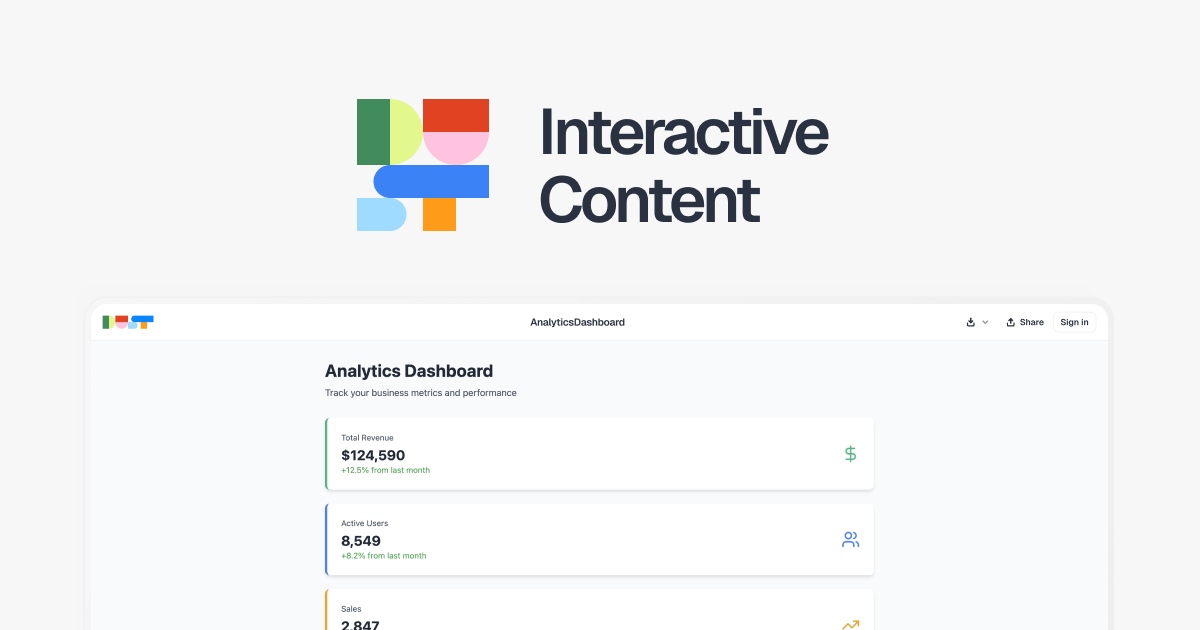
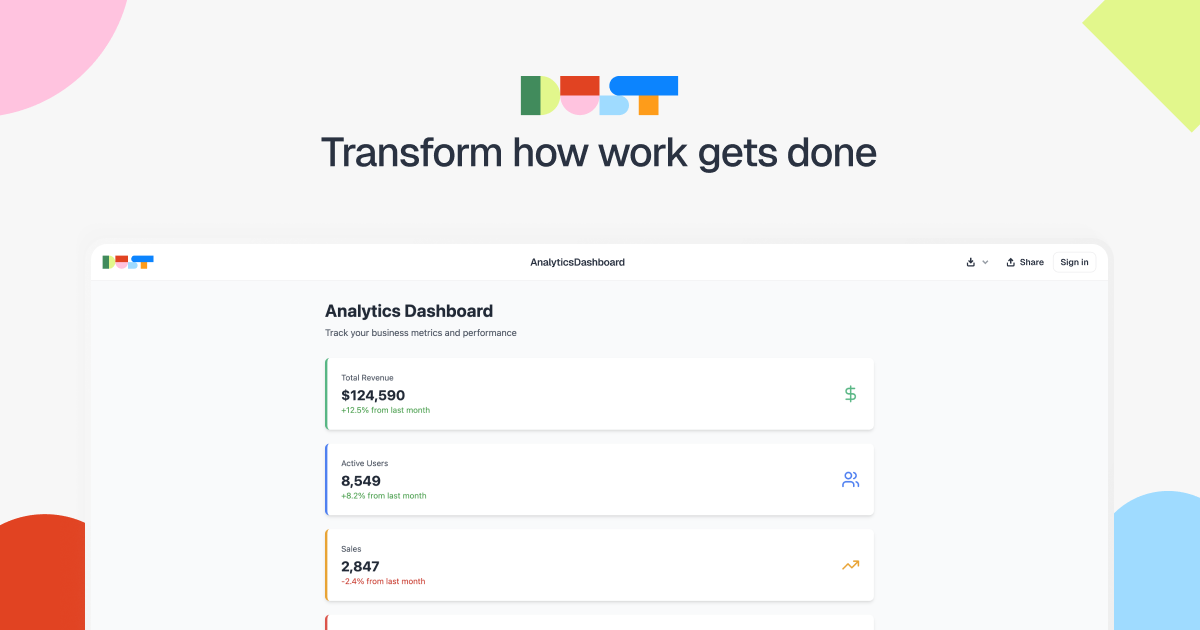
Improve Open Graph preview for Interactive Content

diff --git a/front/pages/share/file/[token].tsx b/front/pages/share/file/[token].tsx
@@ -2,6 +2,7 @@ import Head from "next/head";
 
 import { PublicInteractiveContentContainer } from "@app/components/assistant/conversation/content/PublicInteractiveContentContainer";
 import config from "@app/lib/api/config";
+import { formatFilenameForDisplay } from "@app/lib/files";
 import { makeGetServerSidePropsRequirementsWrapper } from "@app/lib/iam/session";
 import { FileResource } from "@app/lib/resources/file_resource";
 import { WorkspaceResource } from "@app/lib/resources/workspace_resource";
@@ -76,13 +77,14 @@ export default function SharedFilePage({
   token,
   workspaceName,
 }: SharedFilePageProps) {
-  const description = `Interactive content "${title}" shared from ${workspaceName} workspace`;
+  const humanFriendlyTitle = formatFilenameForDisplay(title);
+  const description = `${humanFriendlyTitle} shared from ${workspaceName} via Dust`;
 
   return (
     <>
       <Head>
         {/* Basic meta tags */}
-        <title>{title} - Dust</title>
+        <title>{humanFriendlyTitle} - Dust</title>
         <meta name="description" content={description} />
 
         {/* Prevent search engine indexing */}
@@ -101,14 +103,20 @@ export default function SharedFilePage({
 
         {/* Open Graph meta tags */}
         <meta property="og:type" content="website" />
-        <meta property="og:title" content={`${title} - Interactive Content`} />
+        <meta
+          property="og:title"
+          content={`${humanFriendlyTitle} - ${workspaceName}`}
+        />
         <meta property="og:description" content={description} />
         <meta property="og:url" content={shareUrl} />
         <meta property="og:site_name" content="Dust" />
         <meta property="og:image" content="https://dust.tt/static/og/ic.png" />
         <meta property="og:image:width" content="1200" />
         <meta property="og:image:height" content="630" />
-        <meta property="og:image:alt" content="Dust - Interactive Content" />
+        <meta
+          property="og:image:alt"
+          content="Dust - Accelerate your entire organization with custom AI agents"
+        />
 
         {/* Favicon */}
         <link rel="shortcut icon" href="/static/favicon.png" />

diff --git a/front/lib/files.ts b/front/lib/files.ts
@@ -1,3 +1,5 @@
+import _ from "lodash";
+
 // We use this to detect if an interactive file uses conversation files.
 // In which case, we don't want to display it publicly. Our proxy here is to look for usage of the
 // `useFile` hook.
@@ -5,4 +7,29 @@ export function isFileUsingConversationFiles(content: string): boolean {
   // Simple regex to detect useFile hook usage.
   const useFileRegex = /useFile\s*\(/;
   return useFileRegex.test(content);
+}
+
+/**
+ * Converts a filename to a human-friendly format suitable for display.
+ *
+ * Examples:
+ * - "testFile.tsx" -> "Test File"
+ * - "my_document.pdf" -> "My Document"
+ * - "user-profile-settings.js" -> "User Profile Settings"
+ * - "API_DOCUMENTATION.md" -> "API Documentation"
+ */
+export function formatFilenameForDisplay(filename: string): string {
+  // Remove file extension.
+  const nameWithoutExt = filename.replace(/\.[^/.]+$/, "");
+
+  // Split on camelCase, underscores, and hyphens, then join with spaces.
+  const words = _.chain(nameWithoutExt)
+    .split(/[_-]/) // Split on underscores and hyphens.
+    .flatMap((word) => _.words(word)) // Split camelCase words.
+    .compact() // Remove empty strings.
+    .map((word) => _.capitalize(word)) // Capitalize each word.
+    .join(" ")
+    .value();
+
+  return words;
 }

diff --git a/front/components/assistant/conversation/content/PublicClientExecutableRenderer.tsx b/front/components/assistant/conversation/content/PublicClientExecutableRenderer.tsx
@@ -3,6 +3,7 @@ import { Spinner } from "@dust-tt/sparkle";
 import { VisualizationActionIframe } from "@app/components/assistant/conversation/actions/VisualizationActionIframe";
 import { CenteredState } from "@app/components/assistant/conversation/content/CenteredState";
 import { PublicInteractiveContentHeader } from "@app/components/assistant/conversation/content/PublicInteractiveContentHeader";
+import { formatFilenameForDisplay } from "@app/lib/files";
 import { usePublicFile } from "@app/lib/swr/files";
 
 interface PublicClientExecutableRendererProps {
@@ -40,7 +41,9 @@ export function PublicClientExecutableRenderer({
 
   return (
     <div className="flex h-full flex-col">
-      <PublicInteractiveContentHeader title={fileName || "Client Executable"} />
+      <PublicInteractiveContentHeader
+        title={formatFilenameForDisplay(fileName ?? "Interactive Content")}
+      />
 
       {/* Content */}
       <div className="flex-1 overflow-hidden">
